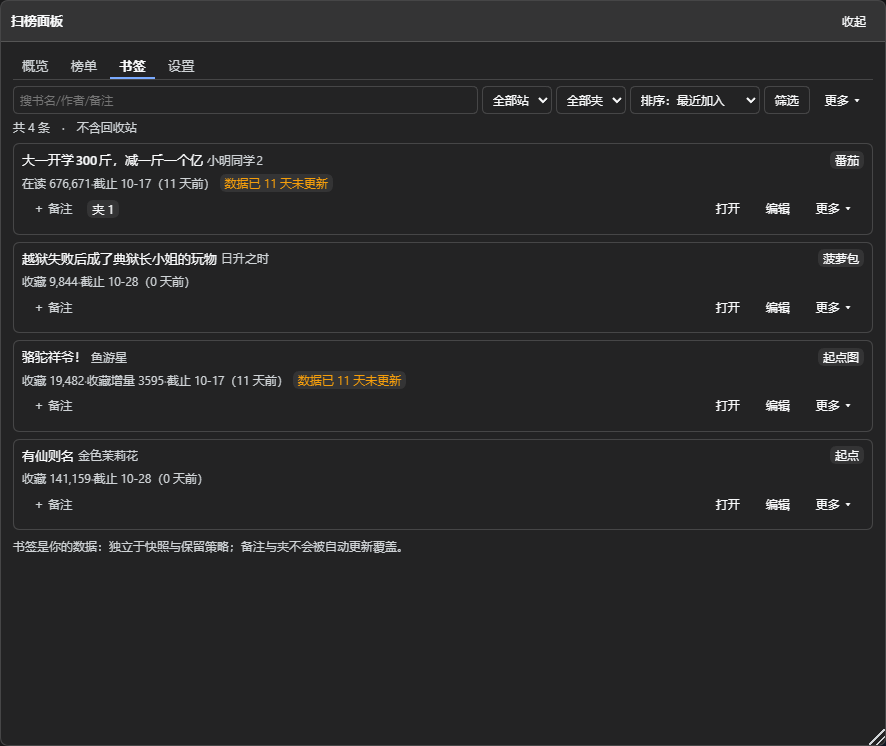
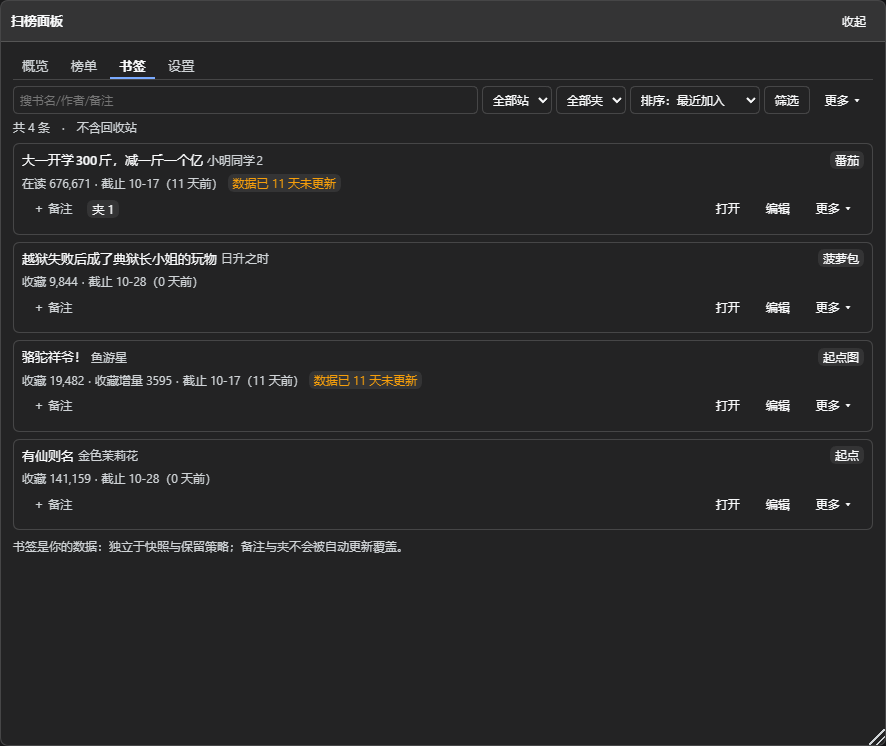
fix(rank-scan): 复查 5 条——中点间距、备注文字降噪、还原卡片边框（: undefined 清空 border）、详情去内层盒子与星标同列

diff --git a/client/parts/70-board.js b/client/parts/70-board.js
@@ -448,13 +448,19 @@
           detailCols.length ? h('div', { style: { marginTop: '3px' } }, detailCols.map(function (c) {
             return h('div', { key: 'dx-' + c.key, style: C.muted }, c.label + '：', cell(rowCellProps(r, c), r))
           })) : null,
-          h('div', { style: C.row },
+          /**
+           * 0.6.0 修：星标原来与备注表单挤在同一个 C.row 里，会「悬」在表单盒子外面左侧；
+           *   现在星标与表单进同一列（星标贴左、表单占满其余宽度），表单本身也不再自套底色盒子。
+           */
+          h('div', { style: { display: 'flex', alignItems: 'flex-start', gap: '6px', marginTop: '4px' } },
             h(BookmarkStar, { bookKey: bookKeyOf(curBoard, r.key), row: r, boardId: curBoard, dataDate: data && data.dataDate }),
-            h(DetailBookmarkEditor, { bookKey: bookKeyOf(curBoard, r.key) }),
-            h('button', { className: 'rs-btn', onClick: function (e) { e.stopPropagation(); if (props.openLink) props.openLink(r.url); else window.open(r.url, '_blank', 'noopener,noreferrer') } }, '在 DSH 侧栏浏览器打开'),
-            h('button', { className: 'rs-btn', onClick: function (e) { e.stopPropagation(); copyLink(r.url) } }, '复制链接'),
-            h('a', { href: r.url || '#', target: '_blank', rel: 'noreferrer', className: 'rs-link-action', style: { color: 'inherit', padding: '3px 8px' }, onClick: function (e) { e.stopPropagation() } }, '新标签打开'),
-            h('button', { className: 'rs-btn is-ghost', style: { marginLeft: 'auto' }, onClick: function (e) { e.stopPropagation(); closeDetail() } }, '关闭')),
+            h('div', { style: { flex: '1 1 auto', minWidth: 0, display: 'flex', flexDirection: 'column', gap: '2px' } },
+              h(DetailBookmarkEditor, { bookKey: bookKeyOf(curBoard, r.key) }),
+              h('div', { style: { ...C.row, marginTop: '2px' } },
+                h('button', { className: 'rs-btn', onClick: function (e) { e.stopPropagation(); if (props.openLink) props.openLink(r.url); else window.open(r.url, '_blank', 'noopener,noreferrer') } }, '在 DSH 侧栏浏览器打开'),
+                h('button', { className: 'rs-btn', onClick: function (e) { e.stopPropagation(); copyLink(r.url) } }, '复制链接'),
+                h('a', { href: r.url || '#', target: '_blank', rel: 'noreferrer', className: 'rs-link-action', style: { color: 'inherit', padding: '3px 8px' }, onClick: function (e) { e.stopPropagation() } }, '新标签打开'),
+                h('button', { className: 'rs-btn is-ghost', style: { marginLeft: 'auto' }, onClick: function (e) { e.stopPropagation(); closeDetail() } }, '关闭')))),
           ex.qidiantuUrl || ex.sourceUrl
             ? h('div', { style: C.row },
                 (ex.qidiantuUrl ? h('button', { className: 'rs-btn', onClick: function (e) { e.stopPropagation(); (props.openLink || window.open)(ex.qidiantuUrl) } }, '看起点图原始页') : null),
@@ -481,7 +487,7 @@
         }).filter(Boolean)
         const metaLine = []
         chips.forEach(function (b, k) {
-          if (k) metaLine.push(h('span', { key: 'sep' + k, style: { opacity: 0.6 } }, ' · '))
+          if (k) metaLine.push(metaDot('sep' + k))
           metaLine.push(b)
         })
         return h('div', {
@@ -489,10 +495,16 @@
           tabIndex: 0,
           'data-row-idx': i,
           'aria-expanded': open ? 'true' : 'false',
-          style: { ...C.card, padding: '5px 8px', margin: '5px 0', cursor: 'pointer',
-            borderColor: open ? T.border : undefined,
-            background: open ? T.subtle : undefined,
-            boxShadow: open ? 'inset 3px 0 0 ' + T.accent : undefined },
+          /**
+           * ★ 0.6.0 修（暗色「亮白粗边框」的真因）：以前写的是
+           *     borderColor: open ? T.border : undefined
+           *   React 会把 undefined 落成 style.borderColor = ''，这一下会把 C.card 的
+           *   border 长写整条清空，边框退回 currentColor —— 暗色下就是近白色的一圈亮边
+           *   （看着像焦点环，其实不是）。现在只在需要时整体替换 style，绝不把颜色设成空串。
+           */
+          style: open
+            ? { ...C.card, padding: '5px 8px', margin: '5px 0', cursor: 'pointer', background: T.subtle, boxShadow: 'inset 3px 0 0 ' + T.accent }
+            : { ...C.card, padding: '5px 8px', margin: '5px 0', cursor: 'pointer' },
           onClick: function () { toggleRow(r, i) },
           onKeyDown: function (e) {
             if (!e || isRowControl(e.target)) return
@@ -604,7 +616,7 @@
                   tabIndex: 0,
                   'data-row-idx': i,
                   'aria-expanded': open ? 'true' : 'false',
-                  style: { cursor: 'pointer', background: open ? T.subtle : undefined },
+                  style: open ? { cursor: 'pointer', background: T.subtle } : { cursor: 'pointer' },
                   onClick: function () { toggleRow(r, i) },
                   onKeyDown: function (e) {
                     if (!e || isRowControl(e.target)) return

diff --git a/client/parts/60-bookmarks.js b/client/parts/60-bookmarks.js
@@ -33,7 +33,8 @@
           .then(function () { setBusy(false); toast('success', '书签已保存'); return store.refreshList() })
           .catch(function (e) { setBusy(false); toast('error', '保存失败：' + e + '（草稿还在）') })
       }
-      return h('div', { style: { ...C.detail, marginTop: '6px' } },
+      // 0.6.0 修：详情卡内不再套一层 C.detail（详情里再套一个带底色的盒子）
+      return h('div', { style: { display: 'flex', flexDirection: 'column', gap: '2px', minWidth: 0 } },
         h('div', { style: C.row },
           h('span', { style: C.muted }, '备注'),
           h('input', { style: { ...C.input, flex: 1, minWidth: '160px' }, value: note, placeholder: '写点什么，可用 #标签', onChange: function (e) { setNote(e.target.value) } })),
@@ -405,12 +406,12 @@
           if (b.capturedAt) metaBits.push(h('span', { title: '这张卡的数据截止到这一天' }, '截止 ' + mdOf(b.capturedAt) + (b.ageDays != null ? '（' + b.ageDays + ' 天前）' : '')))
           const metaLine = []
           metaBits.forEach(function (x, k) {
-            if (k) metaLine.push(h('span', { key: 'ms' + k, style: { opacity: 0.6 } }, ' · '))
+            if (k) metaLine.push(metaDot('ms' + k))
             metaLine.push(x)
           })
           return h('div', {
             key: b.bookKey,
-            style: { ...C.card, padding: '6px 8px', cursor: selectMode ? 'pointer' : undefined },
+            style: selectMode ? { ...C.card, padding: '6px 8px', cursor: 'pointer' } : { ...C.card, padding: '6px 8px' },
             /* C6：批量选择时点卡片空白处即勾选（按钮 / 链接 / 输入框不算空白） */
             onClick: function (e) {
               if (!selectMode) return
@@ -434,8 +435,10 @@
             h('div', { style: { ...C.row, flexWrap: 'nowrap', marginTop: '2px' } },
               noteText
                 ? h('button', {
-                    className: 'rs-link-action',
-                    style: { border: 'none', background: 'transparent', padding: 0, cursor: 'pointer', font: 'inherit', color: 'inherit', flex: '0 1 auto', minWidth: 0, overflow: 'hidden', textOverflow: 'ellipsis', whiteSpace: 'nowrap', fontSize: T.fs.s, textAlign: 'left' },
+                    // 0.6.0 修：有备注的文字以前是「加粗 + 常驻下划线」，看着像链接（与 A1 冲突）。
+                    //   button 语义不变，样式交给 .rs-note-text：常规字重、正文色、只有 hover / focus-visible 出下划线。
+                    className: 'rs-note-text',
+                    style: { flex: '0 1 auto', minWidth: 0, overflow: 'hidden', textOverflow: 'ellipsis', whiteSpace: 'nowrap', fontSize: T.fs.s, textAlign: 'left' },
                     title: '编辑备注',
                     onClick: function (e) { e.preventDefault(); startEdit(b) },
                   }, noteText)

diff --git a/client/parts/10-tokens.js b/client/parts/10-tokens.js
@@ -76,6 +76,9 @@
         '[data-rank-scan-win] a:hover,[data-rank-scan-win] a:focus-visible{text-decoration:underline;text-underline-offset:2px}',
         // A1：文字动作（「新标签打开」这类）保留下划线，用这个 class 与普通链接区分
         '.rs-link-action{text-decoration:underline;text-underline-offset:2px;cursor:pointer}',
+        // A1 例外：备注文字是可点文本，但不该长得像链接——常规字重 + 正文色，只有 hover / focus-visible 才出下划线
+        '.rs-note-text{border:none;background:transparent;padding:0;cursor:pointer;font:inherit;font-weight:400;text-decoration:none;color:' + T.fg + '}',
+        '.rs-note-text:hover,.rs-note-text:focus-visible{text-decoration:underline;text-underline-offset:2px}',
         // A7：输入框 / 下拉框统一 28px，与 .rs-btn 同高（内联 C.input 也走同一数值）
         '.rs-input{height:28px;box-sizing:border-box;padding:0 6px;line-height:1.4}',
         '.rs-th-sort{border:none;background:transparent;padding:0;font:inherit;font-weight:600;cursor:pointer;color:inherit;display:inline-flex;align-items:center;gap:3px}',
@@ -150,5 +153,14 @@
       section: { marginTop: '16px' },
       /** A7：高度与 .rs-btn 对齐为 28px（textarea 需要自己覆盖成 height:auto） */
       input: { height: '28px', boxSizing: 'border-box', padding: '0 6px', fontSize: T.fs.s, borderRadius: T.r.s, border: '1px solid ' + T.border, background: 'transparent', color: 'inherit' },
+    }
+    /**
+     * 元信息分隔中点（A3 / 0.6.0 修）：必须是「 · 」并且两边留 4px。
+     *   ★ 不能靠空格：meta 行是 flex 容器，每个子节点的首尾空格会被行盒裁掉，
+     *     于是截图里出现「在读 676,671·截止」这种粘在一起的字符串。
+     *   中点用 T.muted（不抢元信息本身的颜色）。
+     */
+    const metaDot = function (key) {
+      return h('span', { key: key, style: { color: T.muted, margin: '0 4px' }, 'aria-hidden': 'true' }, '·')
     }
     /** 统一提示条：三种语气只差颜色，形状一致；错误用 role=alert 让读屏器打断 */

diff --git a/client/parts/90-tail.js b/client/parts/90-tail.js
@@ -111,7 +111,7 @@
     bmPage: BM_PAGE,
     bmSortKey: BM_SORT_KEY,
     bmSortOptions: BM_SORT_OPTIONS,
-    helpers: { cell: cell, revOf: revOf, statusText: statusText, scanLabel: scanLabel, pollDelay: pollDelay, canDayQuery: canDayQuery, fitColumns: fitColumns, colPrio: colPrio, mdOf: mdOf, boardLabel: boardLabel, rememberBoardNames: rememberBoardNames },
+    helpers: { cell: cell, metaDot: metaDot, revOf: revOf, statusText: statusText, scanLabel: scanLabel, pollDelay: pollDelay, canDayQuery: canDayQuery, fitColumns: fitColumns, colPrio: colPrio, mdOf: mdOf, boardLabel: boardLabel, rememberBoardNames: rememberBoardNames },
     components: { Overview: Overview, BoardTab: BoardTab, BookmarksTab: BookmarksTab, SettingsTab: SettingsTab, PopMenu: PopMenu, Panel: Panel, ToastHost: ToastHost, StatCard: StatCard, SectionHeader: SectionHeader },
     nextPlanOf: nextPlanOf,
     toast: toast, toastStore: toastStore, lastNote: lastNote, settingsDiff: settingsDiff,

diff --git a/docs/handoff-2026-10-28-ui-polish-0.6.md b/docs/handoff-2026-10-28-ui-polish-0.6.md
@@ -84,6 +84,33 @@ A–E 全部按方案落地，离线闸门 442 pass / 0 fail，acceptance -SkipL
 - 书签批分的「正在编辑的那条」用 `bmBatch(list, n, keepKey)` 的第三参处理：超出已渲染范围时追加渲染，不改变总数与「再显示」语义。
 - 夹具脚本 `scripts/make-bm-fixture.ps1` 仍在仓库里（默认 120 条、只写 `${OutDir}/state/bookmarks.json`），后续手工验收长列表可直接用。
 
+## 复查补丁（第 2 轮，使用者看完截图后提的 5 条）
+
+| # | 问题 | 结论 / 处理 |
+|---|---|---|
+| 1 | 中点串没有间距（「在读 676,671·截止」） | **真因**：元信息行是 flex 容器，子节点的首尾空格会被行盒裁掉 —— 写 `' · '` 等于没有空格。新增纯函数 `metaDot(key)`（`margin: 0 4px` + `color: T.muted` + `·`），书签卡片与窄屏榜单卡片都改用它；手写分隔符一处不留 |
+| 2 | 有备注的文字像链接（加粗 + 常驻下划线） | 保留 `button` 语义，改挂 `.rs-note-text`：常规字重、`T.fg`、默认无下划线，只有 hover / focus-visible 才出下划线；「＋ 备注」空状态样式不变 |
+| 3 | board-480-dark-expanded 左上角带斜线的圆形图标 | **不是面板的**。实测 `document.elementFromPoint(14,16)` 命中的是宿主的「打开侧边栏」按钮（`data-dsh-responsive-part="sidebar-toggle"`，在 `data-shell-overlay` 那层里），它的层叠顺序高于面板 ⇒ 压在我们的标题上。面板侧无可修，未改 |
+| 4 | 第 2 张卡是亮白色粗边框（疑似焦点环） | **不是焦点环**（实测 `outline-style: none`、`:focus-visible` 为 false）。真因是窄屏卡片写了 `borderColor: open ? T.border : undefined`：React 把 `undefined` 落成 `style.borderColor = ''`，这一下会把 C.card 的 `border` 长写**整条清空**，边框退回 `currentColor` —— 暗色下就是近白色的一圈亮边。改成「展开态整体替换 style，不写 `: undefined`」；表格行的 `background: … : undefined` 同样处理 |
+| 5 | 展开详情里「备注 / 书签夹」还是盒子里套盒子，星标悬在盒子外 | `DetailBookmarkEditor` 不再套 `C.detail`（内层无底色、无边框）；星标与表单进同一列（星标贴左、表单占满其余宽度）。**没有动 `25-bookmark-star.js`** —— 星标的 class 与点击逻辑原样，只调了它在详情里的排布 |
+
+## 修改过的旧断言（0.6.0 全程累计）
+
+- `tests/ui-layout.test.mjs`「② 列按可用宽度装…」：取样窗口 `i + 2600` → `i + 4200`。卡片行加了展开态的整段 style（含解释注释），正文变长让原来的窗口截断在 `BookmarkStar` 之前；**断言内容一条没改**（卡片行仍要能打书签、仍要显示指标）。
+- 除此之外基线测试一条没动。
+
+## 闸门（复查补丁后）
+
+- `npm run build` 绿
+- `./scripts/test-local.ps1`：**445 pass / 0 fail**（新增 3 条：metaDot、备注文字样式、`: undefined` 回归）
+- `./scripts/acceptance.ps1 -SkipLive`：**100 pass / 0 fail**
+
+## `http.sslVerify=false` 的作用范围（重要）
+
+- 它**只**出现在本次推送的单条命令里，作为 `git -c http.sslVerify=false …` 的一次性参数（同一批还用了 `-c credential.helper=` 与 `-c http.extraheader=Authorization: …`）。
+- **没有**写进任何 global / local / system 配置，也**没有**写进任何脚本的默认值：实测 `git config --global --get http.sslVerify` 与 `--local` 均为空，`credential.helper` 同样为空。
+- 为什么需要它：本机直连 GitHub 被 TLS 拦截，而本地代理口（12000/7890/7891）当时都没在监听（`dsh-git-audit.ps1` 的判断）。下次推送仍然要重新判断，**不要**把它固化成默认。
+
 ## 发布后必须人工确认的一条（暗色）
 
 > ★ 截图里的暗色是 Playwright `emulateMedia({ colorScheme: 'dark' })` 模拟出来的，**没有经过宿主真实的主题切换**。
